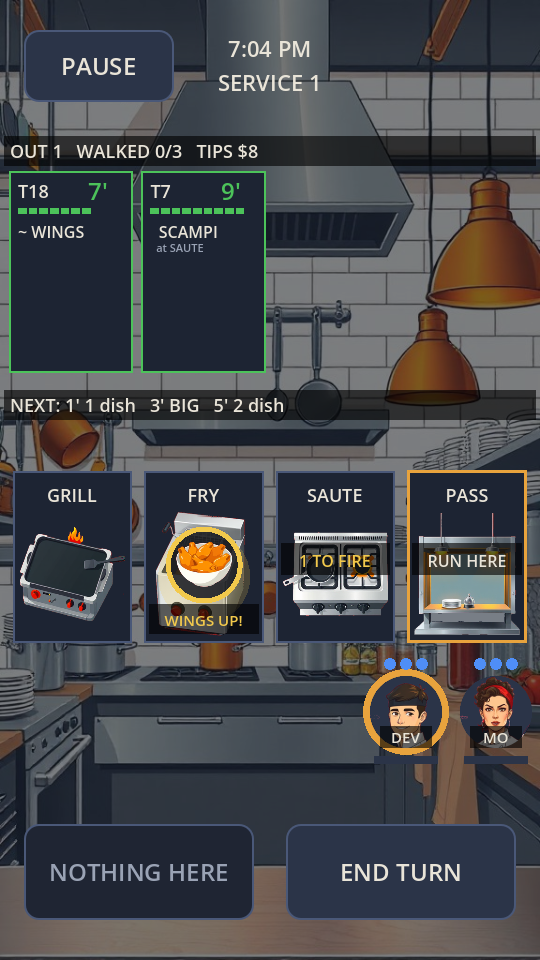
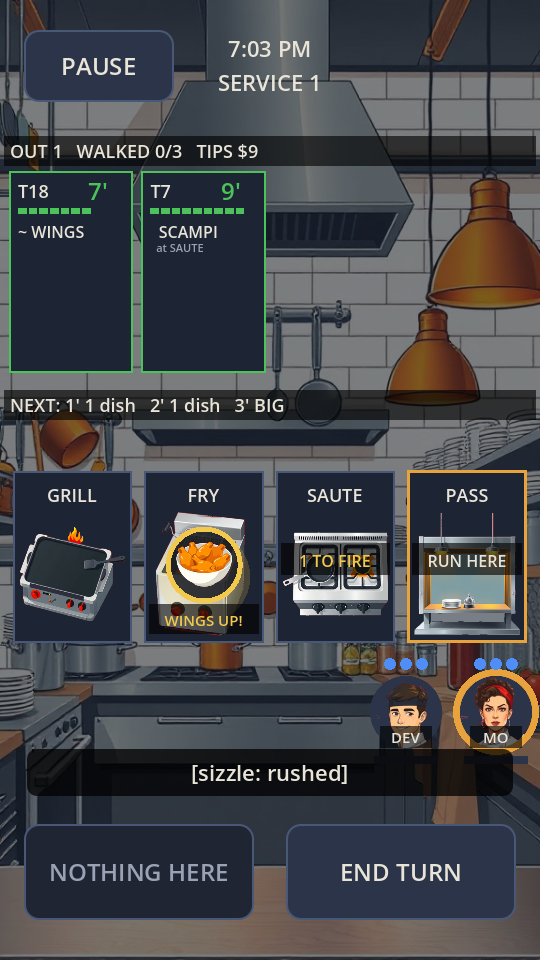
Pick the ticket, RUSH the grill, a pass window (#9)
* Real art, part 1: kitchen wall and the four stations

Forge renders in style A (flat ink), cut to transparent PNGs and cleaned
(key spill, a fake brand name on the fryer). The wall sits under a 55% dark
wash so text stays readable; text on art gets a dark plate. Every state a
player reads (pans, clocks, rings) is still drawn in code on top.

Claude-Session: https://claude.ai/code/session_01V3sbxLu4c4oLEvnvp25i9E

* Real art, part 2: cook portraits and dish icons

DEV and MO get round portrait tokens (name on a plate), each pan shows its
dish icon inside the state ring, and a carried plate rides on the cook's
shoulder. Pan state is still spelled out (2', UP!, BURN!) with a thicker ring
before a burn, so colour and art never carry it alone.

Claude-Session: https://claude.ai/code/session_01V3sbxLu4c4oLEvnvp25i9E

* Real art, part 3: fries reroll + art log

Claude-Session: https://claude.ai/code/session_01V3sbxLu4c4oLEvnvp25i9E

* Kitchen background: busy line wall, text on plates

Duff asked for a more kitchen-like background. New Forge take (hood,
hanging pans, heat lamps, stove line); status, NEXT, carried plate and
WALKED OUT text now sit on dark plates so they read over it. Pan text
names the dish on UP/BURN (fresh-eyes note from #7).

Claude-Session: https://claude.ai/code/session_01V3sbxLu4c4oLEvnvp25i9E

* Pan label fits at every text size; NEXT plate under the +N count

Fresh-eyes on #8: 'BURGER BURN!' spilled into the next station at text
[…]

diff --git a/CLAUDE.md b/CLAUDE.md
@@ -12,7 +12,7 @@ the handoff between sessions. Commands, standing rules, guards and layout: AGENT
   Tests: `test_kitchen_*` in tests/run_tests.gd. Autoplay: TAP PASS + PLAY PASS drive a real service.
 - Tuning lives in game.gd TUNE (ticket_time, crew_ap, stress_cap, service_turns, first_tickets,
   more_tickets): DEV MENU -> TUNE. Defaults: 9-minute tickets, 3 actions, stress cap 6, 20-minute
-  service, 6 tickets in service 1 and +1 each service after.
+  service, 8 tickets in service 1 and +1 each service after.
 - Nov 25 (audit, this is what changed): the curve was 5+2n, which the greedy bot lost 81% of the
   time in service 2 and 99% in service 3; it is now 6+1(n-1) (~40% / ~65%, `test_kitchen_service_curve`
   holds service 2 at or under 55%). A service now ends on a grade sheet (`Kitchen.grade()`, A-F:
@@ -24,6 +24,13 @@ the handoff between sessions. Commands, standing rules, guards and layout: AGENT
   station shows "N TO FIRE". The intro is Rush's own. The APK drops the template's 3D test scene
   and its imported models (export exclude_filter; ~2.2 MB: the 16 MB .glb sources never shipped), so the dev menu hides those two buttons when
   the scene isn't in the build.
+- Nov 25 (Claude playtest, Duff picked "top 3"): tap a ticket card to make FIRE cook that table
+  first (the button names the table); RUSH takes a minute off a cooking pan once a turn for
+  `rush_stress` stress (TUNE); plating puts the dish on the pass window (`Kitchen.window`) and any cook
+  at the pass runs it, so nobody carries plates. The window made the bot much stronger, so the curve
+  is now 8 tickets + 1 per service (bot: s2 ~41%, s3 ~69% game over). Save.VERSION 3 moves a carried
+  plate onto the window. Autoplay: PICK, RUSH, WINDOW PASS. Open from the playtest: grades only land
+  A/C/F, and the sounds are the template's.
 - Latest build: Releases -> `dev` -> `rush.apk`.
 - Nov 24: Eyes (docs/EYES.md): a cloud session can run Rush, tap buttons, read the screen and
   screenshot it. `tools/eyes/smoke.json` plays a turn. Copied from the starter (Duff's OK).
